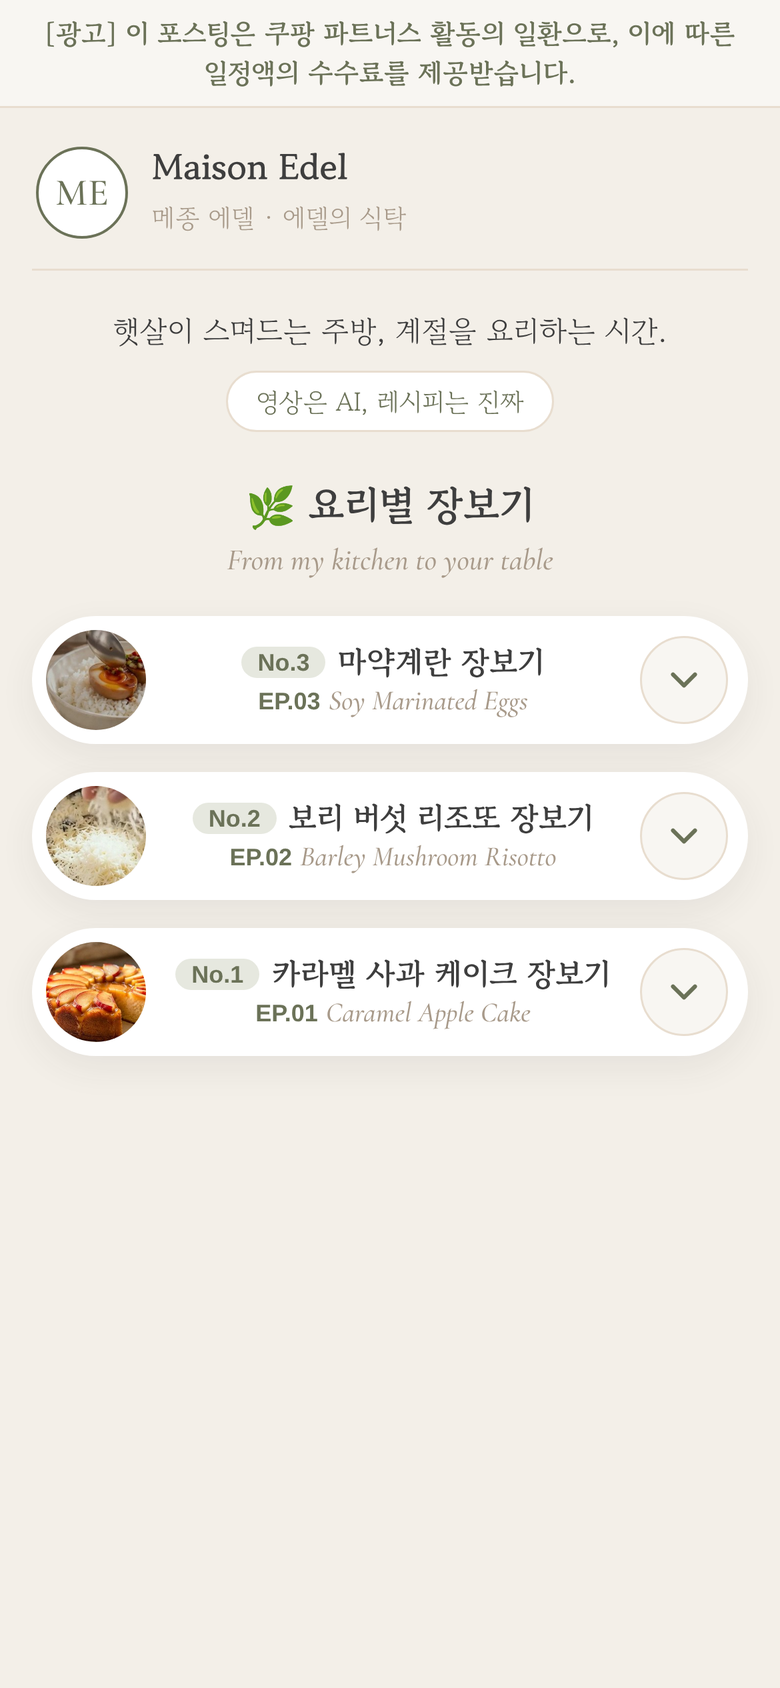
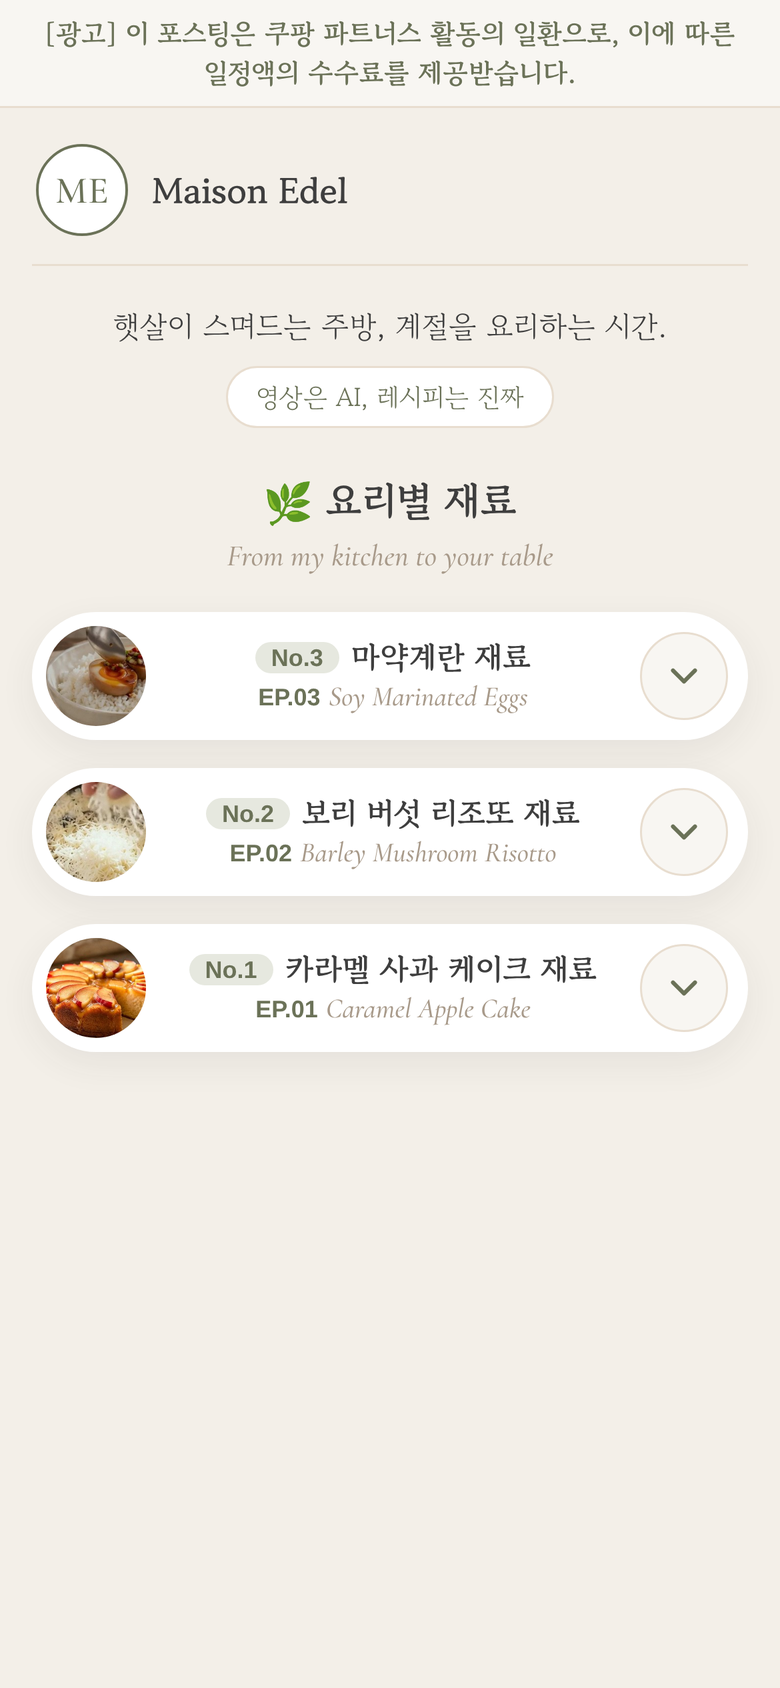
장보기 페이지: 이름 아래 한글 줄 빼기
Claude-Session: https://claude.ai/code/session_01Ethqw5r7mmktrKzGmpSNVy

diff --git a/company/초안/메종에델-장보기/index.html b/company/초안/메종에델-장보기/index.html
@@ -123,7 +123,7 @@
   <!-- 이름 줄 -->
   <header class="head">
     <div class="mark" aria-hidden="true">ME</div>
-    <div class="name"><b>Maison Edel</b><span>메종 에델 · 에델의 식탁</span></div>
+    <div class="name"><b>Maison Edel</b></div>
   </header>
 
   <div class="intro">
